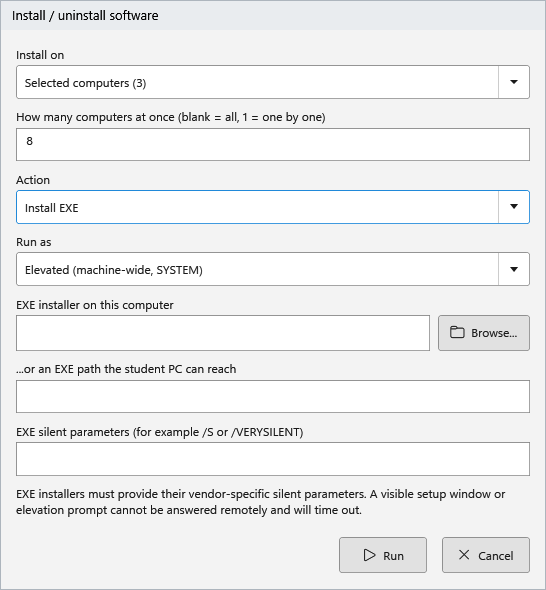
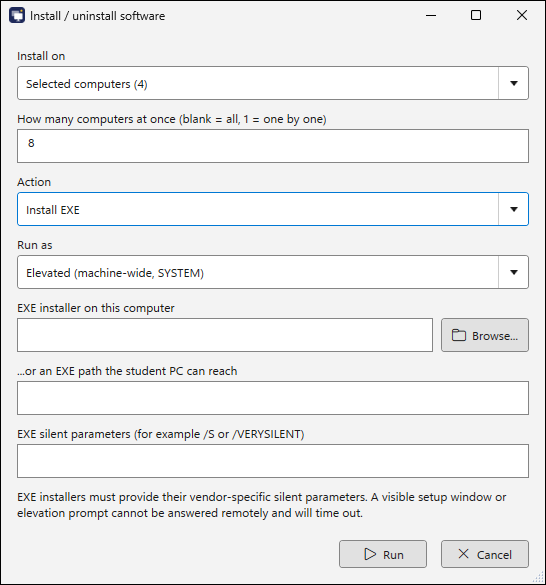
Use real Home Lab screenshots for every picture on the Classroom Manager page

diff --git a/content/lt/school.md b/content/lt/school.md
@@ -17,26 +17,26 @@ facts:
   - "Lietuvių ir anglų kalbomis"
 shot:
   src: "images/overview-lt.png"
-  alt: "Classroom Manager pagrindinis langas: šešių klasės kompiuterių sąrašas su būsena, naudotoju ir Windows versija, trys pažymėti, ir dažnų veiksmų mygtukai: Žinutė, Užrakinti ekraną, Siųsti failus, Diegti / šalinti."
-  caption: "Matote klasę, pažymite kompiuterius, atliekate veiksmą. (Pavyzdiniai duomenys.)"
+  alt: "Classroom Manager pagrindinis langas: šeši bandomosios klasės kompiuteriai su būsena, naudotoju, laikrodžio skirtumu ir Windows versija, keturi prisijungę pažymėti, ir dažnų veiksmų mygtukai: Žinutė, Užrakinti ekraną, Siųsti failus, Diegti / šalinti."
+  caption: "Matote klasę, pažymite kompiuterius, atliekate veiksmą. (Tikra bandomoji Windows 10 ir 11 kompiuterių klasė.)"
 highlightsHeading: "Keturi dažniausiai naudojami veiksmai"
 highlights:
   - title: "Užrakinkite visus ekranus iš karto"
     text: "Vienu paspaudimu visi monitoriai uždengiami jūsų žinute, o Win, Alt+Tab ir Alt+F4 blokuojami. Ekranas lieka užrakintas, kol jį atrakinsite, net jei mokinys atsijungia ir vėl prisijungia."
     src: "images/features/lock-lt.png"
-    alt: "Ekranų užrakinimo langas: trys pažymėti Lab 1 kompiuteriai, antraštė, mokiniams rodoma žinutė ir mygtukai Užrakinti bei Atsisakyti."
+    alt: "Ekranų užrakinimo langas: keturi pažymėti Home Lab klasės kompiuteriai, antraštė, mokiniams rodoma žinutė ir mygtukai Užrakinti bei Atsisakyti."
   - title: "Egzamino režimas"
     text: "Egzamino metu blokuokite pasirinktas svetaines ir programas, išjunkite garsiakalbius ir mikrofonus, kameras ir USB atmintines. Išjungus režimą viskas grįžta kaip buvo."
     src: "images/features/exam-lt.png"
-    alt: "Egzamino režimo nustatymų langas: blokuojamų svetainių ir programų sąrašai, garso, kamerų ir USB atmintinių išjungimo parinktys."
+    alt: "Egzamino režimo nustatymų langas: blokuojamos svetainės (chatgpt.com, youtube.com, tiktok.com) ir programos (discord.exe, steam.exe), garso, kamerų ir USB atmintinių išjungimo parinktys."
   - title: "Programų diegimas visoje klasėje"
     text: "Diekite ar šalinkite `.exe`, `.msi` ar winget paketus daugelyje kompiuterių iš karto, jei norite – dalimis, neprieidami nė prie vieno stalo."
     src: "images/features/install-lt.png"
-    alt: "Programų diegimo ir šalinimo langas: tiksliniai kompiuteriai, kiek vienu metu, veiksmas, vykdymas SYSTEM teisėmis, diegimo failas ir tylaus diegimo parametrai."
+    alt: "Programų diegimo ir šalinimo langas: keturi pažymėti kompiuteriai, kiek vienu metu, veiksmas, vykdymas SYSTEM teisėmis, diegimo failas ir tylaus diegimo parametrai."
   - title: "Mokinių darbų surinkimas"
     text: "Surinkite atitinkančius failus iš visų mokinių kompiuterių į vieną aplanką savo kompiuteryje – po poaplankį kiekvienam mokiniui. Originalai lieka savo vietose."
     src: "images/features/collect-lt.png"
-    alt: "Failų surinkimo iš mokinių langas: trys pažymėti kompiuteriai, aplankas mokinio kompiuteryje, failų vardų šablonas ir aplankas, į kurį išsaugoma."
+    alt: "Failų surinkimo iš mokinių langas: keturi pažymėti kompiuteriai, aplankas mokinio kompiuteryje, failų vardų šablonas *.docx ir aplankas, į kurį išsaugoma."
 upkeepHeading: "Kad visi kompiuteriai būtų vienodi"
 upkeep:
   - title: "Windows naujinimai nuo jūsų stalo"
@@ -48,7 +48,7 @@ upkeep:
     wide: true
     text: "Vienu veiksmu nustatykite visų kompiuterių laikrodžius pagal savo kompiuterį, net be interneto, ir suvienodinkite laiko juostą. Neteisingas laikas trikdo prisijungimą, svetaines ir egzamino laiką."
     src: "images/features/time-lt.png"
-    alt: "Laiko sinchronizavimo langas: trys pažymėti kompiuteriai, laikrodis nustatomas pagal šio kompiuterio laikrodį, ir parinktis suvienodinti laiko juostą."
+    alt: "Laiko sinchronizavimo langas: keturi pažymėti kompiuteriai, laikrodis nustatomas pagal šio kompiuterio laikrodį, ir parinktis suvienodinti laiko juostą."
   - title: "Vienodi klaviatūros išdėstymai"
     wide: true
     text: "Iš karto matykite, kuriems kompiuteriams trūksta išdėstymo ar kurie pradeda ne nuo to, pridėkite ar pašalinkite išdėstymus ir pasirinkite numatytąjį. Klasės rinkinį išsaugokite kartą ir grąžinkite į jį visus kompiuterius."

diff --git a/content/en/school.md b/content/en/school.md
@@ -17,26 +17,26 @@ facts:
   - "English and Lithuanian"
 shot:
   src: "images/overview-en.png"
-  alt: "Classroom Manager main window: a list of six lab computers with their state, user and Windows version, three of them selected, and buttons for common tasks such as Message, Lock screen, Send files and Install / uninstall."
-  caption: "See the room, select the computers, run the action. (Demo data.)"
+  alt: "Classroom Manager main window: six computers of a test lab with their state, user, clock offset and Windows build, four online ones selected, and buttons for common tasks such as Message, Lock screen, Send files and Install / uninstall."
+  caption: "See the room, select the computers, run the action. (A real test lab of Windows 10 and 11 PCs.)"
 highlightsHeading: "The four things teachers use most"
 highlights:
   - title: "Lock every screen at once"
     text: "One click covers every monitor with your message and blocks Win, Alt+Tab and Alt+F4. It stays locked until you unlock it, even if a student signs out and back in."
     src: "images/features/lock-en.png"
-    alt: "Lock screens window: three selected computers in Lab 1, a title, the message shown to students, and Lock and Cancel buttons."
+    alt: "Lock screens window: four selected computers in the Home Lab room, a title, the message shown to students, and Lock and Cancel buttons."
   - title: "Exam mode"
     text: "Block chosen websites and programs, mute speakers and microphones, turn cameras off and block USB drives for the exam. Turn it off and everything goes back to normal."
     src: "images/features/exam-en.png"
-    alt: "Exam mode settings window: lists of blocked websites and programs, and options to mute sound, turn cameras off and block USB drives."
+    alt: "Exam mode settings window: blocked websites (chatgpt.com, youtube.com, tiktok.com) and programs (discord.exe, steam.exe), and options to mute sound, turn cameras off and block USB drives."
   - title: "Install software on the whole lab"
     text: "Install or uninstall `.exe`, `.msi` or winget packages on many PCs at once, in batches if you like, without visiting a single desk."
     src: "images/features/install-en.png"
-    alt: "Install / uninstall software window: target computers, how many at once, the action, run as SYSTEM, the installer and its silent parameters."
+    alt: "Install / uninstall software window: four selected computers, how many at once, the action, run as SYSTEM, the installer and its silent parameters."
   - title: "Collect students' work"
     text: "Gather matching files from every student PC into one folder on your computer, one subfolder per student. The originals stay where they are."
     src: "images/features/collect-en.png"
-    alt: "Collect files from students window: three selected computers, the folder on the student PC, a file name pattern and the folder to save into."
+    alt: "Collect files from students window: four selected computers, the folder on the student PC, the file name pattern *.docx and the folder to save into."
 upkeepHeading: "Keeping every PC the same"
 upkeep:
   - title: "Windows Update from your desk"
@@ -48,7 +48,7 @@ upkeep:
     wide: true
     text: "Set every clock from your own computer in one step, even without internet, and match the time zone too. Wrong clocks break sign-in, websites and exam timing."
     src: "images/features/time-en.png"
-    alt: "Sync time window: three selected computers, setting the clock from this computer's clock, and an option to match the time zone."
+    alt: "Sync time window: four selected computers, setting the clock from this computer's clock, and an option to match the time zone."
   - title: "Keyboard layouts that match"
     wide: true
     text: "See at a glance which PCs miss a layout or start in the wrong one, add or remove layouts and choose the default. Save the room's set once and bring every PC back to it."
